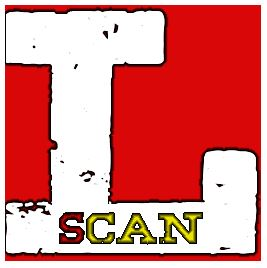
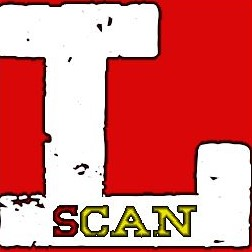
edit images

diff --git a/CSS/proj.css b/CSS/proj.css
@@ -30,6 +30,10 @@ h2 {
   text-align: center;
 }
 
+img {
+  max-width: 400px;
+}
+
 .row {
   margin: 8px -16px;
 }
